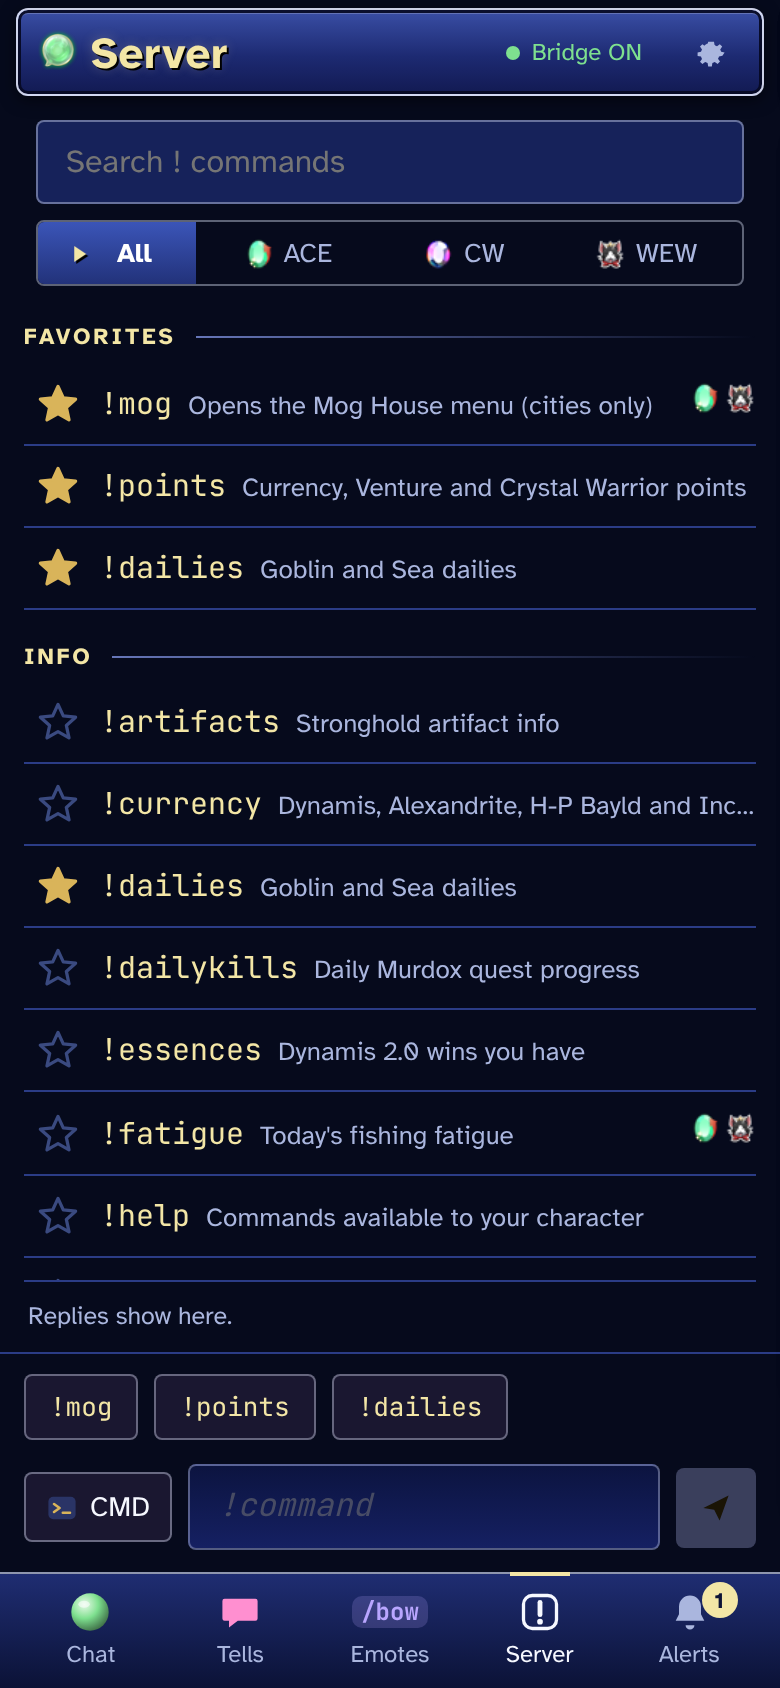
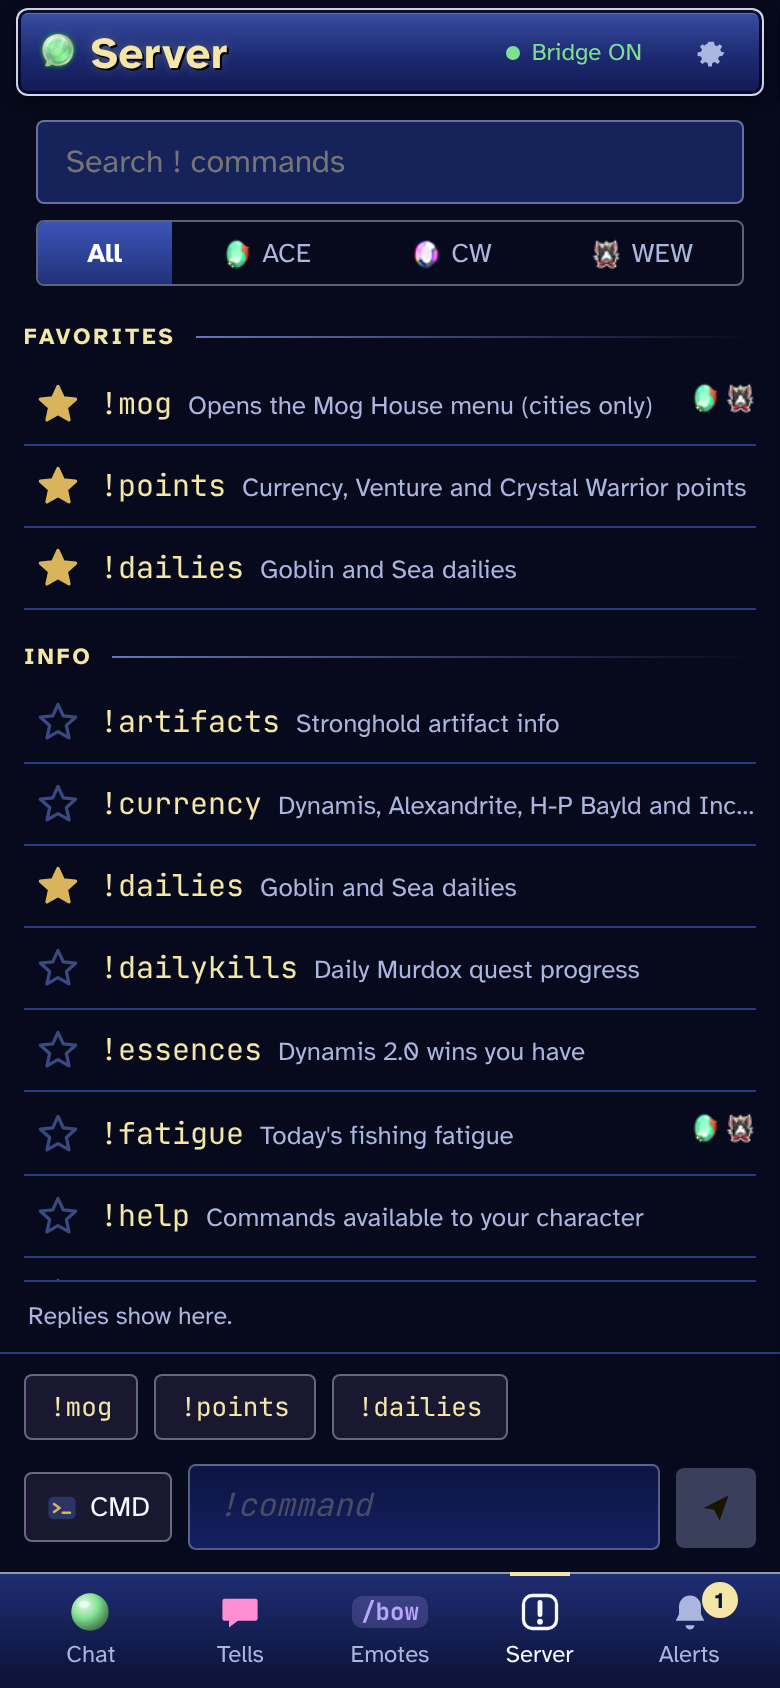
Changelog for the caret, Classic default and Yunas glow changes; screenshots retaken
Claude-Session: https://claude.ai/code/session_01EQHJvygqjKH5KeboZ1DR92

diff --git a/CHANGELOG.md b/CHANGELOG.md
@@ -18,7 +18,9 @@ Fixes, looks and a few phone-side features (your own emoticons, drafts, HVNM car
 - Message text is neutral by default. "Color message text" in Settings turns on channel colors for the text too, and dark colors are lightened so they stay readable.
 - LS2 is now `#06ED00`. Colors you chose yourself stay as they are. The color picker stays open while new messages arrive.
 - A tidier look on every skin: square corners, one window frame, fewer outlines, and gold kept for Send, POP! and the selected tab. Alerts cards lose their inner boxes. CSS only. Yunas keeps its colors, font, glow and gradients.
-- The selected view and option are marked with a small gold caret, like the game's cursor. The active tab gets a gold line and a lit icon. Sheets open in place instead of sliding up, new lines appear without sliding, and POP! pulses. Tab icons follow the text color.
+- A small gold caret, like the game's cursor, marks the current choice in the Send To list, and shows for a moment on a view or setting you've just tapped. The active tab gets a gold line and a lit icon. Sheets open in place instead of sliding up, new lines appear without sliding, and POP! pulses. Tab icons follow the text color.
+- Classic is the skin a new install starts with, and it's first in the Skin list. If you already use phonechatXI, your skin stays as it is.
+- Yunas: the glow on a new line is softer and fades out more slowly, and it only shows when chat had been quiet for a few seconds, so busy chat doesn't flicker.
 - A tell's conversation keeps your lines on the left with a faint tint, like the main chat, instead of right-aligned.
 - Keyboard focus is visible, the message box is labeled for screen readers, and animations stop if your device is set to reduce motion.
 
